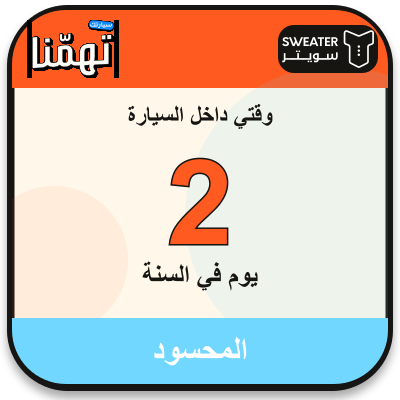
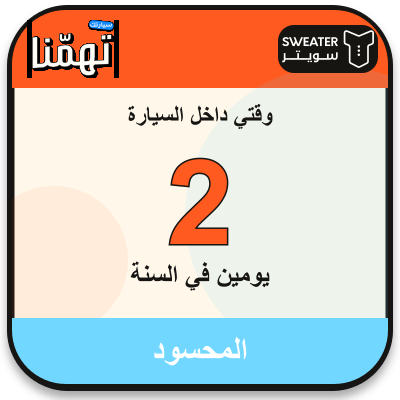
Use correct Arabic day unit forms

Changed region(s): [[0.33, 0.66, 0.69, 0.75]]

diff --git a/app/page.tsx b/app/page.tsx
@@ -10,6 +10,12 @@ type Discount = { code: string; value: string; expiresAt: string; terms: string 
 
 const englishDigits = new Intl.NumberFormat("en-US", { maximumFractionDigits: 1 });
 const formatNumber = (value: number) => englishDigits.format(Math.abs(value - Math.round(value)) < 0.05 ? Math.round(value) : value);
+const getDayUnit = (value: number) => {
+  const displayedValue = Math.abs(value - Math.round(value)) < 0.05 ? Math.round(value) : Number(value.toFixed(1));
+  if (displayedValue === 2) return "يومين";
+  if (Number.isInteger(displayedValue) && displayedValue >= 3 && displayedValue <= 10) return "أيام";
+  return "يوم";
+};
 const getMemeVideo = (tier: ResultTier) => `/memes/${tier.id}.mp4`;
 const socialLinks = [
   { label: "إنستقرام", icon: FaInstagram, href: "https://www.instagram.com/sweater_sa/" },
@@ -113,7 +119,7 @@ export default function Home() {
   const tierPosition = useMemo(() => campaignConfig.tiers.findIndex((item) => item.id === tier.id) + 1, [tier.id]);
   const displayName = useMemo(() => nameInput.trim().replace(/\s+/g, " "), [nameInput]);
   const snapShareUrl = useMemo(() => {
-    const params = new URLSearchParams({ name: displayName, days: formatNumber(days), minutes: String(minutes), tier: tier.name, v: "5" });
+    const params = new URLSearchParams({ name: displayName, days: formatNumber(days), unit: getDayUnit(days), minutes: String(minutes), tier: tier.name, v: "6" });
     return `https://tahmna-car-time.a7medalnahdi.chatgpt.site/snap?${params.toString()}`;
   }, [days, displayName, minutes, tier.name]);
 
@@ -334,7 +340,7 @@ export default function Home() {
     ctx.fillText(formatNumber(days), 540, 1240);
     ctx.fillStyle = campaignConfig.colors.cream;
     ctx.font = '900 43px "Lama Sans", Arial';
-    ctx.fillText("يوم تقضيه من سنتك داخل السيارة", 540, 1320, 880);
+    ctx.fillText(`${getDayUnit(days)} في السنة داخل السيارة`, 540, 1320, 880);
     ctx.fillStyle = accent;
     fillRoundRect(160, 1360, 760, 76, 38);
     ctx.fillStyle = "#fff";
@@ -404,7 +410,7 @@ export default function Home() {
       const shareData = {
         files: [file],
         title: "شارك نتيجتك",
-        text: `أنا ${displayName} وطلعت أقضي ${formatNumber(days)} يومًا من سنتي داخل السيارة 😅 احسب نتيجتك أنت بعد. ${campaignConfig.brand.hashtag}`,
+        text: `أنا ${displayName} وطلعت أقضي ${formatNumber(days)} ${getDayUnit(days)} من سنتي داخل السيارة 😅 احسب نتيجتك أنت بعد. ${campaignConfig.brand.hashtag}`,
       };
       if (navigator.share && navigator.canShare?.({ files: [file] })) {
         track("share_invoked");
@@ -442,7 +448,7 @@ export default function Home() {
   };
 
   const copyShareText = async () => {
-    await navigator.clipboard.writeText(`أنا ${displayName} وطلعت أقضي ${formatNumber(days)} يومًا من سنتي داخل السيارة 😅 احسب نتيجتك أنت بعد. ${campaignConfig.brand.hashtag}`);
+    await navigator.clipboard.writeText(`أنا ${displayName} وطلعت أقضي ${formatNumber(days)} ${getDayUnit(days)} من سنتي داخل السيارة 😅 احسب نتيجتك أنت بعد. ${campaignConfig.brand.hashtag}`);
   };
 
   const copyCode = async () => {
@@ -555,7 +561,7 @@ export default function Home() {
             </div>
             <div className="result-card-score">
               <span>تقضي من سنتك داخل السيارة</span>
-              <div className="result-card-days"><strong>{formatNumber(days)}</strong><em>يوم</em></div>
+              <div className="result-card-days"><strong>{formatNumber(days)}</strong><em>{getDayUnit(days)}</em></div>
             </div>
             <div className="result-card-persona">
               <small>شخصيتك</small>

diff --git a/app/snap/page.tsx b/app/snap/page.tsx
@@ -1,7 +1,7 @@
 import type { Metadata } from "next";
 import Link from "next/link";
 
-type SnapSearchParams = Promise<{ name?: string; days?: string; minutes?: string; tier?: string }>;
+type SnapSearchParams = Promise<{ name?: string; days?: string; unit?: string; minutes?: string; tier?: string }>;
 
 const clean = (value: string | undefined, fallback: string, max = 48) =>
   (value ?? fallback).replace(/[<>]/g, "").trim().slice(0, max) || fallback;
@@ -10,8 +10,9 @@ export async function generateMetadata({ searchParams }: { searchParams: SnapSea
   const params = await searchParams;
   const name = clean(params.name, "صاحب البطاقة", 28);
   const days = clean(params.days, "؟", 8);
+  const unit = clean(params.unit, "يوم", 8);
   const tier = clean(params.tier, "شخصية تهمنا");
-  const title = `${name} يقضي ${days} يوم داخل السيارة!`;
+  const title = `${name} يقضي ${days} ${unit} داخل السيارة!`;
   const description = `شخصيته: ${tier}. اكتشف بطاقتك أنت في حاسبة تهمنا من سويتر.`;
   return {
     title,
@@ -26,6 +27,7 @@ export default async function SnapResultPage({ searchParams }: { searchParams: S
   const params = await searchParams;
   const name = clean(params.name, "صاحب البطاقة", 28);
   const days = clean(params.days, "؟", 8);
+  const unit = clean(params.unit, "يوم", 8);
   const tier = clean(params.tier, "شخصية تهمنا");
   const minutes = Math.min(240, Math.max(1, Math.round(Number(params.minutes) || 1)));
   const sticker = `https://tahmna-car-time.a7medalnahdi.chatgpt.site/snap-stickers/result-${minutes}.png?v=5`;
@@ -40,7 +42,7 @@ export default async function SnapResultPage({ searchParams }: { searchParams: S
           <img className="snap-sweater-logo" src="/sweater-logo-white.svg" alt="شعار سويتر" width="518" height="213" />
         </div>
         <span>بطاقة وقت السيارة</span>
-        <h1>{name} يقضي <strong>{days}</strong> يوم داخل السيارة!</h1>
+        <h1>{name} يقضي <strong>{days}</strong> {unit} داخل السيارة!</h1>
         <p>شخصيته: <b>{tier}</b></p>
         <Link href="/">اكتشف بطاقتك أنت <i aria-hidden="true">←</i></Link>
       </section>
